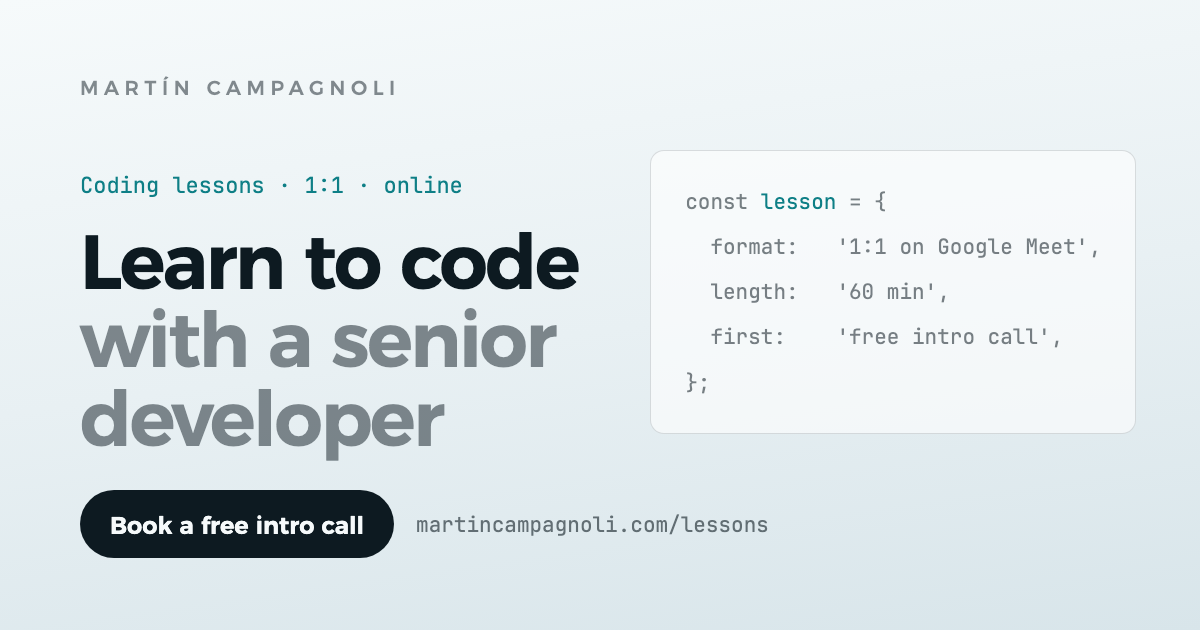
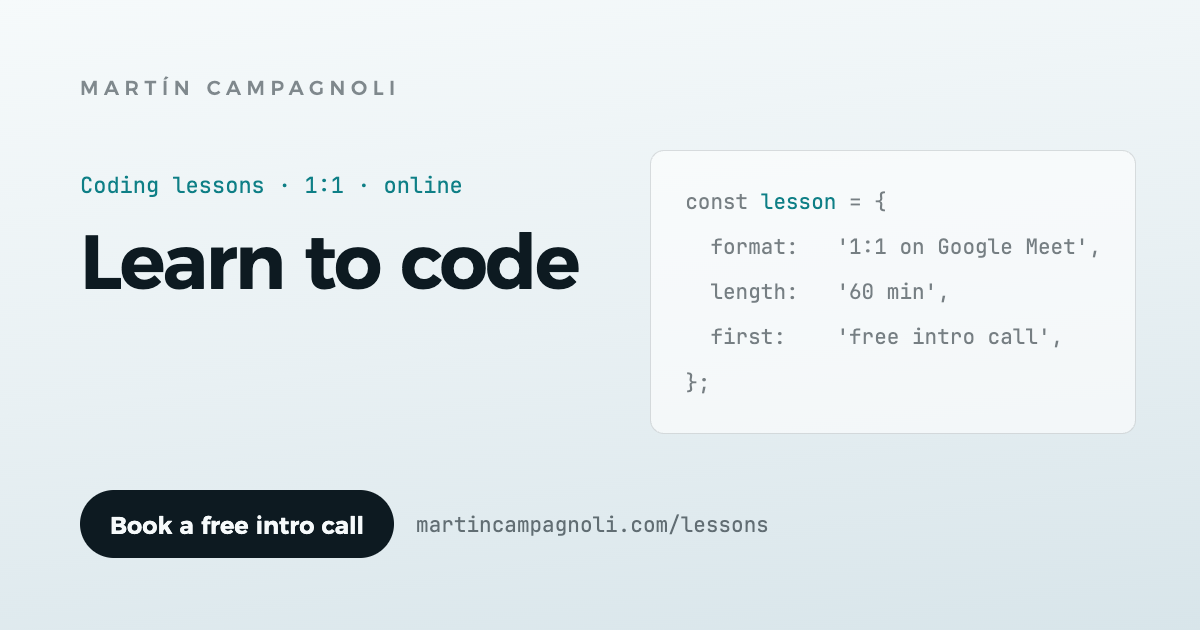
copy: drop "with a senior developer" from the /lessons headline and share card

Changed region(s): [[0.0617, 0.4825, 0.4625, 0.7238]]

diff --git a/src/app/data/lessons.data.ts b/src/app/data/lessons.data.ts
@@ -3,7 +3,7 @@ import { CV } from './cv.data';
 
 export const LESSONS: Lessons = {
   eyebrow: 'Coding lessons · 1:1 · online',
-  headline: ['Learn to code', 'with a senior developer'],
+  headline: ['Learn to code'],
   intro:
     'Private online lessons for beginners and working developers. We go at your pace, on your goals and in real code: no slides, no recordings, one person who has shipped production frontends for more than ten years.',
   facts: [

diff --git a/scripts/og-lessons.html b/scripts/og-lessons.html
@@ -27,7 +27,7 @@ h1 span{display:block;color:rgba(13,26,33,.5)}
 .url{font-family:J;font-size:21px;color:rgba(13,26,33,.6)}
 </style></head><body>
 <div class="in"><div class="brand">Martín Campagnoli</div><div class="eye">Coding lessons · 1:1 · online</div>
-<h1>Learn to code<span>with a senior developer</span></h1></div>
+<h1>Learn to code</h1></div>
 <div class="code">const <b>lesson</b> = {
   format:   '1:1 on Google Meet',
   length:   '60 min',
